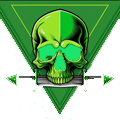
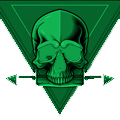
Add/update final items

diff --git a/holotapes/KillTeamTracker/app.js b/holotapes/KillTeamTracker/app.js
@@ -24,7 +24,7 @@
   const DEFAULT_STATS = [
     { name: 'Turning Point', defaultVal: 1, min: 1, max: 4 },
     { name: 'Command Points', defaultVal: 3, min: 0, max: 99 },
-    { name: 'Victory Points', defaultVal: 0, min: 0, max: 99 }
+    { name: 'Victory Points', defaultVal: 0, min: 0, max: 99 },
   ];
   let currentStats = [];
   let activeStatIndex = 0;
@@ -34,9 +34,24 @@
   const H = h.getHeight();
 
   const SCREEN_XY = { x1: 60, y1: 40, x2: W - 60, y2: H - 20 };
-  const TITLE_XY = { x1: SCREEN_XY.x1, y1: 10, x2: SCREEN_XY.x2, y2: SCREEN_XY.y2 };
-  const MENU_HEADER_XY = { x1: SCREEN_XY.x1 + 10, y1: SCREEN_XY.y1 + 10, x2: SCREEN_XY.x2 - 10, y2: SCREEN_XY.y1 + 35 };
-  const MENU_XY = { x1: MENU_HEADER_XY.x1, y1: MENU_HEADER_XY.y2 + 5, x2: MENU_HEADER_XY.x2, y2: SCREEN_XY.y2 - 20 };
+  const TITLE_XY = {
+    x1: SCREEN_XY.x1,
+    y1: 10,
+    x2: SCREEN_XY.x2,
+    y2: SCREEN_XY.y2,
+  };
+  const MENU_HEADER_XY = {
+    x1: SCREEN_XY.x1 + 10,
+    y1: SCREEN_XY.y1 + 10,
+    x2: SCREEN_XY.x2 - 10,
+    y2: SCREEN_XY.y1 + 35,
+  };
+  const MENU_XY = {
+    x1: MENU_HEADER_XY.x1,
+    y1: MENU_HEADER_XY.y2 + 5,
+    x2: MENU_HEADER_XY.x2,
+    y2: SCREEN_XY.y2 - 20,
+  };
 
   // Calculate 2/3 and 1/3 vertical splits for the layout
   const TOTAL_TRACKER_HEIGHT = SCREEN_XY.y2 - SCREEN_XY.y1;
@@ -46,13 +61,13 @@
     x1: SCREEN_XY.x1,
     y1: SCREEN_XY.y1,
     x2: SCREEN_XY.x2,
-    y2: SCREEN_XY.y1 + TWO_THIRDS_HEIGHT
+    y2: SCREEN_XY.y1 + TWO_THIRDS_HEIGHT,
   };
   const TABLE_XY = {
     x1: SCREEN_XY.x1,
     y1: ACTIVE_XY.y2,
     x2: SCREEN_XY.x2,
-    y2: SCREEN_XY.y2
+    y2: SCREEN_XY.y2,
   };
 
   // Runtime state
@@ -86,7 +101,11 @@
 
     h.setFontAlign(-1, -1, 0)
       .setFont('4x6', 2)
-      .drawString(appVersion, TITLE_XY.x1 + titleWidth + padding, TITLE_XY.y1 + 14);
+      .drawString(
+        appVersion,
+        TITLE_XY.x1 + titleWidth + padding,
+        TITLE_XY.y1 + 14,
+      );
   }
 
   function drawMenuHeader(text) {
@@ -94,7 +113,11 @@
     const padding = 5;
     h.setFontAlign(-1, -1, 0)
       .setFontMonofonto16()
-      .drawString(text.toUpperCase(), MENU_HEADER_XY.x1 + padding, MENU_HEADER_XY.y1 + padding);
+      .drawString(
+        text.toUpperCase(),
+        MENU_HEADER_XY.x1 + padding,
+        MENU_HEADER_XY.y1 + padding,
+      );
   }
 
   function drawMenu(menuOptions) {
@@ -147,7 +170,7 @@
     h.setFontMonofonto28().setFontAlign(0, 0, 0); // Center text alignment
     const activeX = (ACTIVE_XY.x1 + ACTIVE_XY.x2) / 2;
     const activeY = (ACTIVE_XY.y1 + ACTIVE_XY.y2) / 2;
-    
+
     const activeText = `< ${activeStat.name}: ${activeStat.value} >`;
     h.drawString(activeText, activeX, activeY);
     Pip.shadeBox(ACTIVE_XY.x1, ACTIVE_XY.y1, ACTIVE_XY.x2, ACTIVE_XY.y2);
@@ -164,24 +187,33 @@
       if (i === activeStatIndex) continue; // Skip rendering the active one in the table
 
       const stat = currentStats[i];
-      const rowY1 = TABLE_XY.y1 + (rowIndex * rowHeight);
-      
+      const rowY1 = TABLE_XY.y1 + rowIndex * rowHeight;
+
       // Print stat name on the left, value on the right
       h.drawString(stat.name, TABLE_XY.x1 + textPaddingX, rowY1 + textPaddingY);
-      
+
       // Right align the values manually relative to screen width boundaries
-      const totalString = "" + stat.value;
+      const totalString = '' + stat.value;
       const strWidth = h.stringWidth(totalString);
-      h.drawString(totalString, TABLE_XY.x2 - textPaddingX - strWidth, rowY1 + textPaddingY);
+      h.drawString(
+        totalString,
+        TABLE_XY.x2 - textPaddingX - strWidth,
+        rowY1 + textPaddingY,
+      );
 
       rowIndex++;
     }
 
     if (C.SHOW_MENU_BOUNDARIES) {
-        drawBoundaries(SCREEN_XY);
-        drawBoundaries(ACTIVE_XY);
-        // Draw the horizontal line separating the two table rows
-        h.drawLine(TABLE_XY.x1, TABLE_XY.y1 + rowHeight, TABLE_XY.x2, TABLE_XY.y1 + rowHeight);
+      drawBoundaries(SCREEN_XY);
+      drawBoundaries(ACTIVE_XY);
+      // Draw the horizontal line separating the two table rows
+      h.drawLine(
+        TABLE_XY.x1,
+        TABLE_XY.y1 + rowHeight,
+        TABLE_XY.x2,
+        TABLE_XY.y1 + rowHeight,
+      );
     }
   }
 
@@ -196,8 +228,12 @@
     let maxLen = 0;
 
     switch (menuDisplayed) {
-      case 'main': maxLen = MENU_MAIN_OPTIONS.length - 1; break;
-      case 'inGameOptions': maxLen = MENU_INGAME_OPTIONS.length - 1; break;
+      case 'main':
+        maxLen = MENU_MAIN_OPTIONS.length - 1;
+        break;
+      case 'inGameOptions':
+        maxLen = MENU_INGAME_OPTIONS.length - 1;
+        break;
     }
 
     menuIndexSelected = E.clip(menuIndexSelected + dir, 0, maxLen);
@@ -214,7 +250,7 @@
     if (!inGame || menuDisplayed !== '') return;
     const prevIndex = activeStatIndex;
     activeStatIndex = E.clip(activeStatIndex + dir, 0, currentStats.length - 1);
-    
+
     if (prevIndex !== activeStatIndex) {
       Pip.playSound('SCROLL');
       drawTrackerBoard();
@@ -223,17 +259,17 @@
 
   function initializeStats() {
     currentStats = [];
-    
+
     for (let i = 0; i < DEFAULT_STATS.length; i++) {
       let stat = DEFAULT_STATS[i];
       currentStats.push({
         name: stat.name,
         min: stat.min,
         max: stat.max,
-        value: stat.defaultVal
+        value: stat.defaultVal,
       });
     }
-    
+
     activeStatIndex = 0;
   }
 
@@ -257,27 +293,23 @@
 
     if (dir !== 0 && menuDisplayed !== '') {
       return menuScroll(dir);
-    } 
-    else if (dir !== 0 && inGame && menuDisplayed === '') {
+    } else if (dir !== 0 && inGame && menuDisplayed === '') {
       return statScroll(dir);
-    } 
-    else if (dir === 0) {
+    } else if (dir === 0) {
       Pip.playSound('SCROLL');
-      
+
       if (!inGame) {
         if (menuDisplayed === 'main') {
           if (menuIndexSelected === 0) gameStart();
           else if (menuIndexSelected === 1) {
             menuDisplayed = 'help';
             drawMenuHelp();
-          }
-          else if (menuIndexSelected === 2) exitApp();
+          } else if (menuIndexSelected === 2) exitApp();
         } else if (menuDisplayed === 'help') {
           menuDisplayed = 'main';
           menuLoad(MENU_MAIN_OPTIONS, 'Main Menu');
         }
-      } 
-      else {
+      } else {
         if (menuDisplayed === '') {
           menuDisplayed = 'inGameOptions';
           menuLoad(MENU_INGAME_OPTIONS, 'Options');
@@ -304,10 +336,10 @@
       let stat = currentStats[activeStatIndex];
       let prevValue = stat.value;
       stat.value = E.clip(stat.value + dir, stat.min, stat.max);
-      
+
       if (prevValue !== stat.value) {
-         Pip.playSound('SCROLL');
-         drawTrackerBoard();
+        Pip.playSound('SCROLL');
+        drawTrackerBoard();
       }
     }
   }

diff --git a/holotapes/KillTeamTracker/README.md b/holotapes/KillTeamTracker/README.md
@@ -1,9 +1,17 @@
 # Kill Team Tracker
 
+### Info
+
+**Author(s):**
+
+- [@SethSanchez](https://github.com/SethSanchez)
+
+### Description
+
 A Turning Point, Command Point, and Victory Point tracker for the Pip-Boy 3000.
 Meant for use in a 40k Kill Team game. Only tracks values for a single player.
 
-## Controls
+### Controls
 
 | Input                                 | Action                                  |
 | ------------------------------------- | --------------------------------------- |
@@ -11,6 +19,6 @@ Meant for use in a 40k Kill Team game. Only tracks values for a single player.
 | Right scroll wheel (knob2) left/right | Adjust value                            |
 | Left scroll wheel press               | Select a menu item or bring up the menu |
 
-## License
+### License
 
 MIT